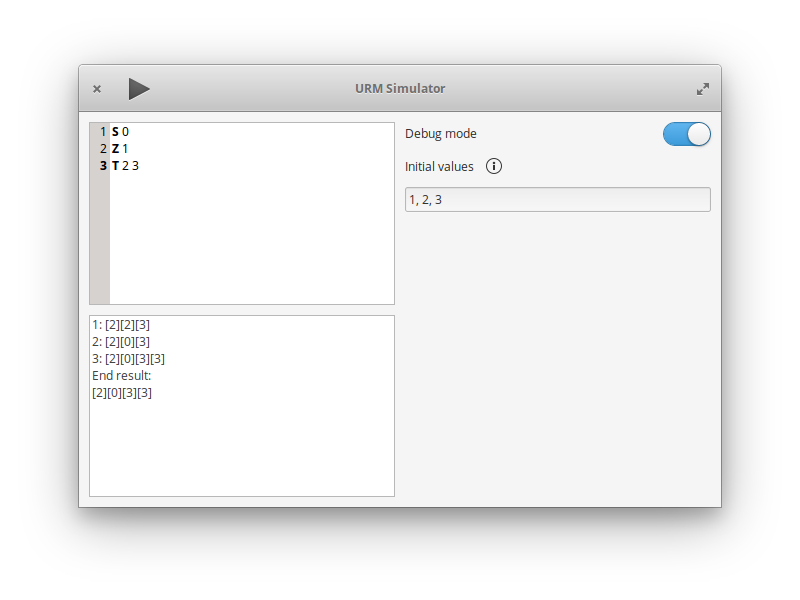
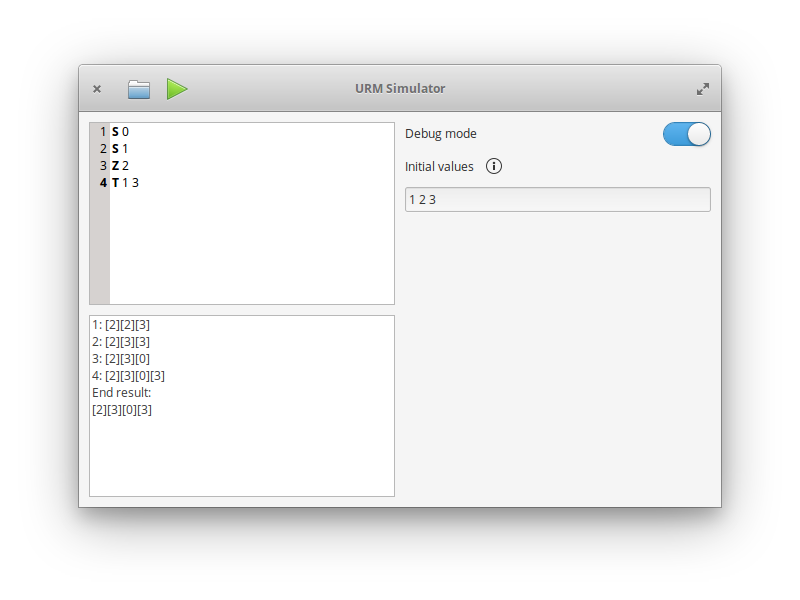
Update README

diff --git a/README.md b/README.md
@@ -8,7 +8,8 @@ Exercise in Vala and publishing to elementary OS's AppCenter.
 
 ## Current features
  - Executes URM code correctly
-  - Ability to manually set initial values
+ - Ability to load a file
+ - Ability to manually set initial values
  - When in debug mode, shows the result after each instruction
  - Upon finishing, shows the state of all the used registers
  - Has sythax highlighting
@@ -17,7 +18,7 @@ Exercise in Vala and publishing to elementary OS's AppCenter.
 ## Planned features
  - Graph representation
  - Help and documentation
- - Opening and saving files
+ - Saving files
  
 ## Note
 At the time of writing, instructions are zero-based numbered, while the text widget shows line numbers with one-based numbering. This means that the line number is bigger by one than the number of the instrucion, i.e. if the line number is "4", the actual instruction number is "3". This will be fixed in the future.
